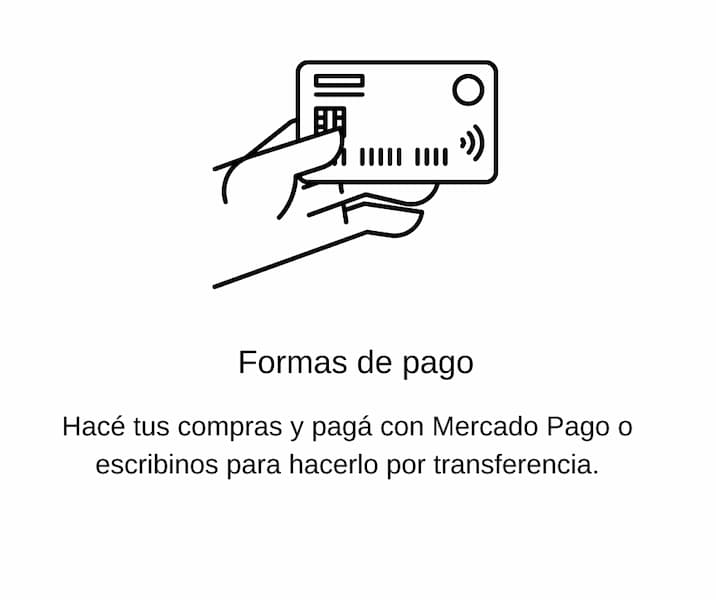
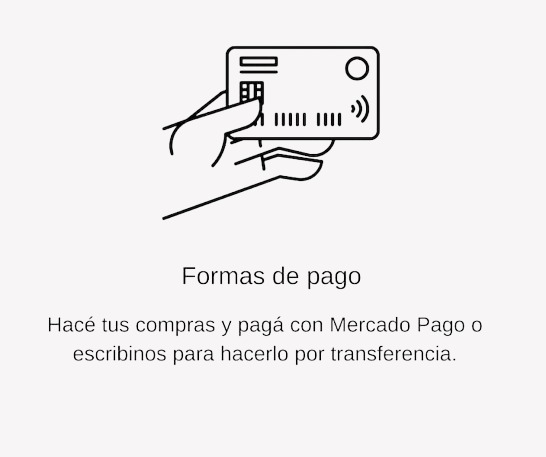
cambie paleta

diff --git a/css/estilos.css b/css/estilos.css
@@ -19,14 +19,14 @@ html {
     padding: 0%; }
 
 h1 {
-  color: #000000;
+  color: #0f3433;
   font-size: 30px;
   font-weight: 400;
   text-align: center;
   margin: 20px; }
 
 h2 {
-  color: #000000;
+  color: #0f3433;
   font-family: system-ui, -apple-system, BlinkMacSystemFont, 'Segoe UI', Roboto, Oxygen, Ubuntu, Cantarell, 'Open Sans', 'Helvetica Neue', sans-serif;
   font-style: normal;
   font-size: 35px;
@@ -34,7 +34,7 @@ h2 {
   text-align: center; }
 
 p {
-  color: #000000;
+  color: #0f3433;
   font-family: system-ui, -apple-system, BlinkMacSystemFont, 'Segoe UI', Roboto, Oxygen, Ubuntu, Cantarell, 'Open Sans', 'Helvetica Neue', sans-serif;
   font-style: normal;
   margin: 10px; }
@@ -46,7 +46,7 @@ a {
 header .logo {
   display: flex;
   justify-content: center;
-  background-color: #A0CDAC; }
+  background-color: #a3c9be; }
 
 header .navbar {
   padding-top: 0;
@@ -54,7 +54,7 @@ header .navbar {
   header .navbar .container-fluid {
     padding-left: 0;
     padding-right: 0;
-    background-color: #A0CDAC; }
+    background-color: #a3c9be; }
     header .navbar .container-fluid .navbar-toggler {
       color: #a0cdac00; }
     header .navbar .container-fluid .collapse .navbar-nav .nav-item .nav-link {
@@ -63,7 +63,7 @@ header .navbar {
       transition: 0.5s; }
       header .navbar .container-fluid .collapse .navbar-nav .nav-item .nav-link:hover {
         color: #fff7f5;
-        background-color: #d2bf9e; }
+        background-color: #f3b65a; }
 
 .d-flex {
   width: 250px; }
@@ -71,16 +71,16 @@ header .navbar {
     font-size: 15px;
     padding: 0; }
   .d-flex .btn-outline-success {
-    color: #000000;
+    color: #0f3433;
     border-color: #88b293;
     border-radius: 30%;
     font-size: 15px; }
     .d-flex .btn-outline-success:hover {
-      background-color: #d2bf9e;
+      background-color: #f3b65a;
       color: #fff7f5; }
 
 main .hero h1 {
-  color: #000000;
+  color: #0f3433;
   font-size: 35px;
   font-weight: 400;
   margin: 10px; }
@@ -97,7 +97,7 @@ main section div .cajita .productos {
   flex-wrap: wrap; }
   main section div .cajita .productos div {
     width: 300px;
-    border: #A0CDAC 1px solid;
+    border: #a3c9be 1px solid;
     text-align: center;
     border-radius: 10%;
     box-shadow: 0px 3px 19px 5px rgba(109, 109, 107, 0.236);
@@ -119,7 +119,7 @@ main section div .cajita .productos {
       display: inline-block;
       margin: 10px;
       padding: 10px;
-      background-color: #A0CDAC;
+      background-color: #a3c9be;
       border-radius: 20px;
       font-family: system-ui, -apple-system, BlinkMacSystemFont, 'Segoe UI', Roboto, Oxygen, Ubuntu, Cantarell, 'Open Sans', 'Helvetica Neue', sans-serif;
       font-style: normal; }
@@ -130,7 +130,7 @@ main section .formulario {
   align-items: center;
   margin: 30px; }
   main section .formulario div label {
-    color: #A0CDAC;
+    color: #a3c9be;
     font-weight: 500;
     font-size: 20px;
     display: flex;
@@ -143,7 +143,7 @@ main section .formulario {
     justify-content: center; }
   main section .formulario div a:not(.contrasenia) {
     color: #fff7f5;
-    background-color: #A0CDAC;
+    background-color: #a3c9be;
     margin: 10px;
     padding: 10px;
     border-radius: 20px;
@@ -152,14 +152,14 @@ main section .formulario {
     justify-content: center;
     font-size: 20px; }
   main section .formulario div .contrasenia {
-    color: #A0CDAC;
+    color: #a3c9be;
     font-size: 15px;
     display: flex;
     justify-content: center; }
   main section .formulario div p {
     font-size: 15px;
     font-weight: 500;
-    color: #A0CDAC; }
+    color: #a3c9be; }
 
 main section .cafe {
   display: flex;
@@ -167,7 +167,7 @@ main section .cafe {
   flex-wrap: wrap; }
   main section .cafe div {
     width: 300px;
-    border: #A0CDAC 1px solid;
+    border: #a3c9be 1px solid;
     text-align: center;
     border-radius: 10%;
     box-shadow: 0px 3px 19px 5px rgba(109, 109, 107, 0.236);
@@ -187,7 +187,7 @@ main section .cafe {
       display: inline-block;
       padding: 10px;
       margin: 5px;
-      background-color: #A0CDAC;
+      background-color: #a3c9be;
       border-radius: 20px; }
       main section .cafe div select option {
         border-radius: 20px; }
@@ -197,7 +197,7 @@ main section .cafe {
       display: inline-block;
       margin: 5px;
       padding: 10px;
-      background-color: #A0CDAC;
+      background-color: #a3c9be;
       border-radius: 20px; }
 
 main .contenedor {
@@ -208,7 +208,7 @@ main .contenedor {
   main .contenedor .presentacion {
     grid-area: presentacion; }
     main .contenedor .presentacion h1 {
-      color: #000000;
+      color: #0f3433;
       font-family: system-ui, -apple-system, BlinkMacSystemFont, 'Segoe UI', Roboto, Oxygen, Ubuntu, Cantarell, 'Open Sans', 'Helvetica Neue', sans-serif;
       font-style: normal;
       font-size: 35px;
@@ -219,7 +219,7 @@ main .contenedor {
   main .contenedor .paula {
     width: 500px;
     height: 500px;
-    border: #A0CDAC 1px solid;
+    border: #a3c9be 1px solid;
     border-radius: 10%;
     margin: auto;
     grid-area: paula; }
@@ -237,7 +237,7 @@ main .contenedor {
     grid-area: bar; }
 
 footer {
-  background-color: #A0CDAC;
+  background-color: #a3c9be;
   margin-top: auto; }
   footer p {
     font-size: medium; }

diff --git a/index.html b/index.html
@@ -60,7 +60,7 @@
                 <form class="d-flex">
                     <input class="form-control me-2" type="search" placeholder="¿Que estás buscando?"
                         aria-label="Search">
-                    <button class="btn btn-outline-success" type="submit">Buscar</button>
+                    <button class="btn btn-outline-success" type="submit"><img src="./img/lupa.png" alt="lupa"></button>
                 </form>
             </div>
         </nav>
@@ -76,10 +76,10 @@
                         <img src="./img/CAFETTI1.jpg" class="d-block w-100" alt="INICIO">
                     </div>
                     <div class="carousel-item">
-                        <img src="./img/CAFETTI1.jpg" class="d-block w-100" alt="medios de pago">
+                        <img src="./img/CAFETTI2.jpg" class="d-block w-100" alt="medios de pago">
                     </div>
                     <div class="carousel-item">
-                        <img src="./img/CAFETTI2.jpg" class="d-block w-100" alt="pedidos personalizados">
+                        <img src="./img/CAFETTI3.png" class="d-block w-100" alt="pedidos personalizados">
                     </div>
                 </div>
                 <button class="carousel-control-prev" type="button" data-bs-target="#carouselExampleControls"

diff --git a/scss/base/_variables.scss b/scss/base/_variables.scss
@@ -1,7 +1,7 @@
-$color-principal:#A0CDAC;
-$color-hover: #d2bf9e;
+$color-principal:#a3c9be;
+$color-hover: #f3b65a;
 $color-claro:#fff7f5;
-$color-textos:#000000;
+$color-textos:#0f3433;
 
 // listas
 $font-size:
@@ -39,7 +39,7 @@ $tarjeta:(
     height:$height;
 }
 
-// EXTEN
+// EXTEND
 %texto{
     text-align: center;
 }
